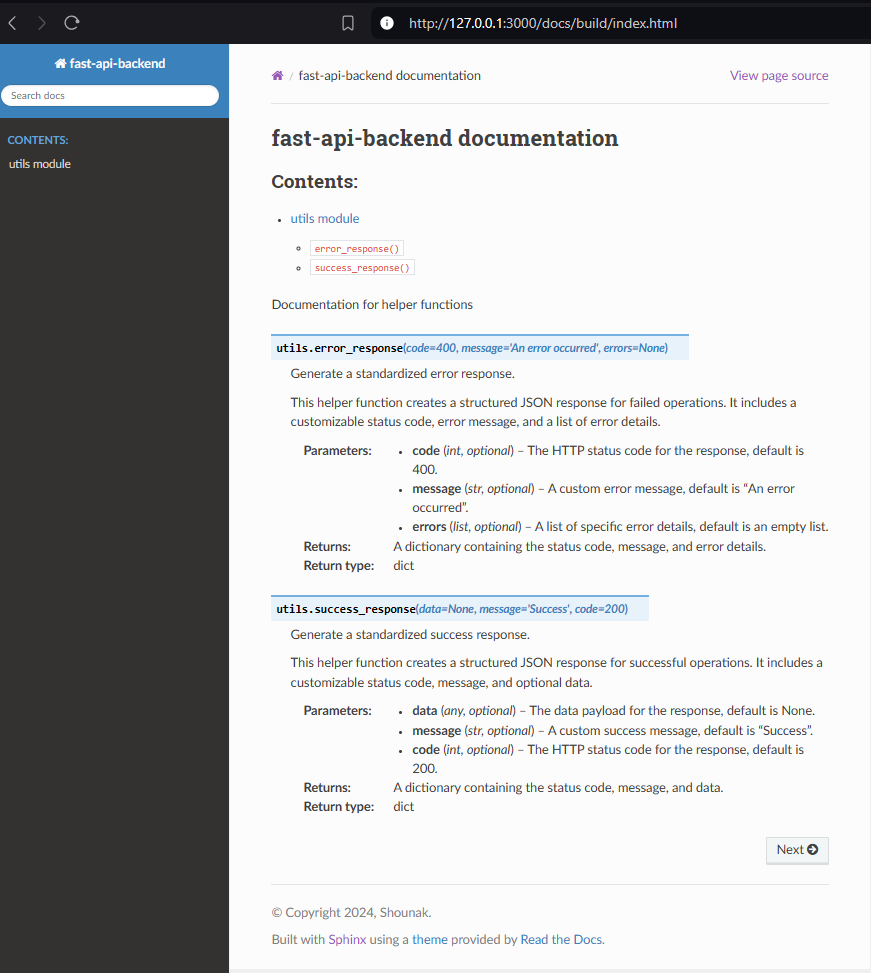
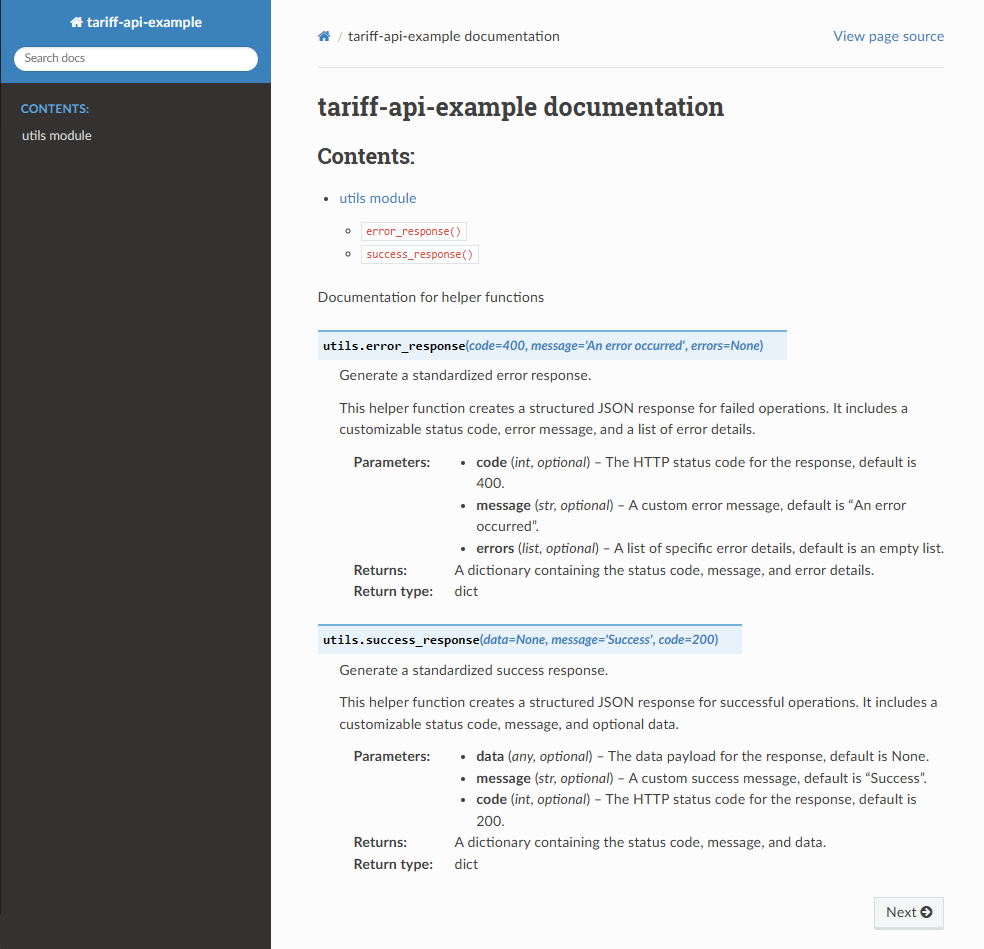
update readme.md
updated name and added a clear descreption of problem statement

Changed region(s): [[0.0, 0.0, 1.0, 1.0], [0.899, 0.9473, 0.961, 0.9779]]

diff --git a/README.md b/README.md
@@ -1,12 +1,16 @@
-# FastAPI Backend Server
+# Tariff API Backend Server
 
 ## Overview
 
-This project is a FastAPI backend server designed for efficient resource management through versioned APIs. FastAPI was chosen for its simplicity and speed, offering an easier setup compared to Django, while also providing more advanced features than Flask. This makes it a great fit for modern web applications that require performance without unnecessary complexity.
+This project demonstrates use FastAPI to create CRUD operations for a Tariff object, providing a practical solution for managing tariff-related data in web applications. It was developed following Test-Driven Development (TDD) principles, ensuring that each feature and function is thoroughly tested using pytest.
 
-The use of pytest for testing ensures that the codebase remains reliable and maintainable, allowing for quick identification and resolution of issues.
+The project showcases the setup of versioned APIs (both versions currently operational), demonstrating how to manage API versioning in a real-world context. To support developer understanding, Sphinx is used for auto-generating code documentation from docstrings, providing an example of how to maintain clear, up-to-date documentation. API documentation can be viewed through the integrated Swagger documentation.
 
-The server includes API documentation via Swagger, enabling  exploration of the available endpoints. Additionally, Sphinx is employed to generate documentation from the code's docstrings, which aids in understanding the functionality. Lastly, Greylog is implemented for centralized log management, providing insights into application behavior and facilitating efficient monitoring and troubleshooting.
+For logging and monitoring, Greylog has been integrated to centralize logs and simplify troubleshooting, enabling insight into application behavior and facilitating efficient issue resolution.
+
+#### Future Enhancements:
+- Background jobs using RedisQ to handle tasks asynchronously.
+- Custom exception handling for errors with more informative feedback.
 
 ## Features
 
@@ -29,8 +33,8 @@ To get a copy of the project up and running on your local machine, follow these 
 **Clone the Repository**
 
 ```bash
-git clone https://github.com/shounak77/fast-api-backend
-cd fast-api-backend
+git clone https://github.com/shounak77/tariff-api-example
+cd tariff-api-example
 ```
 **Create a Virtual Environment**
 ```
